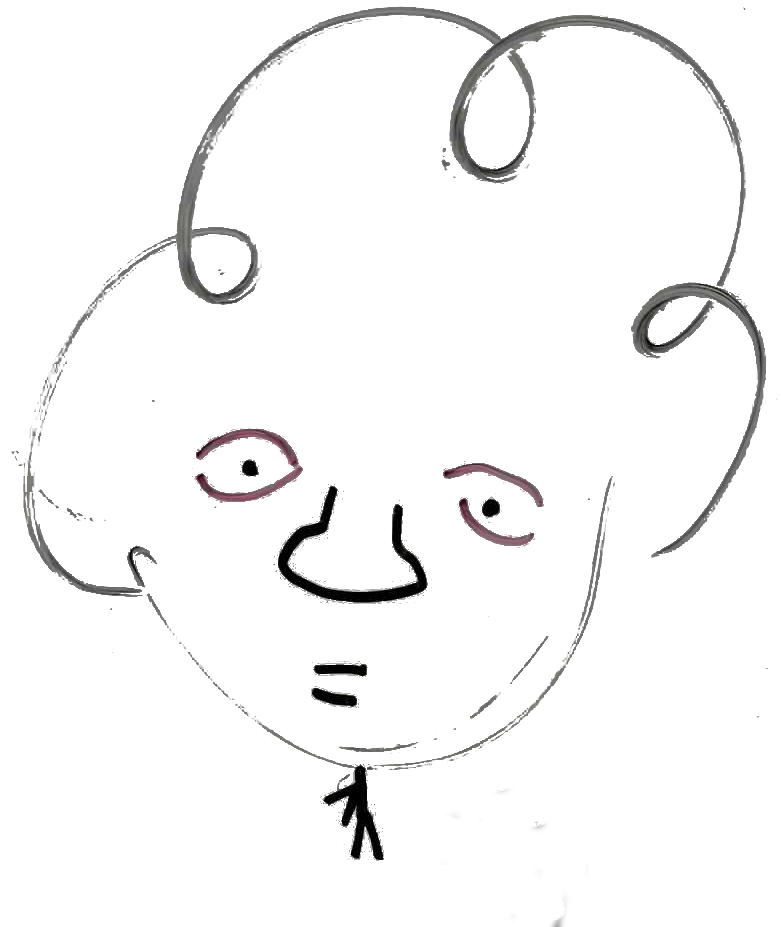
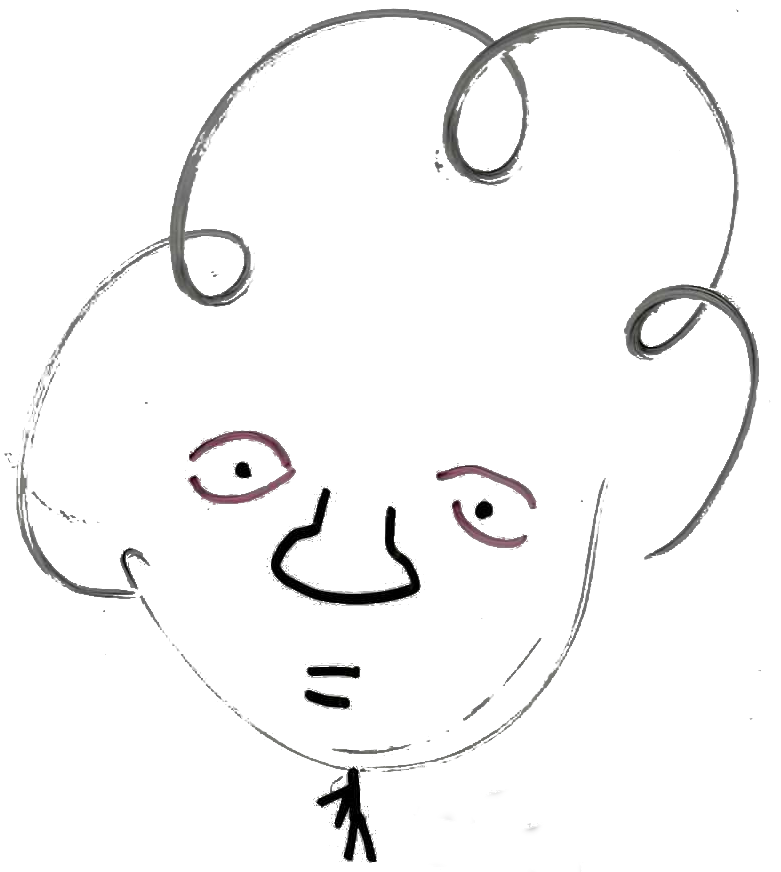
update members
update grade and modify some icon!

diff --git a/_pages/member.md b/_pages/member.md
@@ -2,16 +2,18 @@
 title: Member
 
 B1:
-  - [理工, 機械, 1名]
-  - [理工, 物理, 4名]
+  - ["null", "null", NAN名]
 B2:
+  - [理工, 物理, 4名]
   - [理工, 機械, 1名]
 B3:
-  - ["null", "null", NAN名]
+  - [理工, 機械, 1名]
 B4:
+  - ["null", "null", NAN名]
+M1:
   - [理工, 物理, 2名]
   - [理工, ロボ, 1名]
-M1:
+M2:
   - [理工, 物理, 1名]
 OB18:
   - [理工, 電気電子, 2名]
